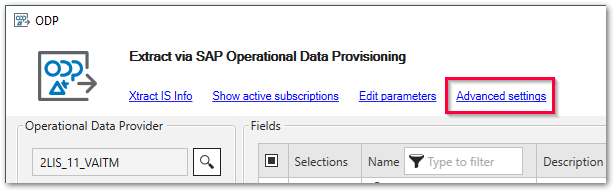
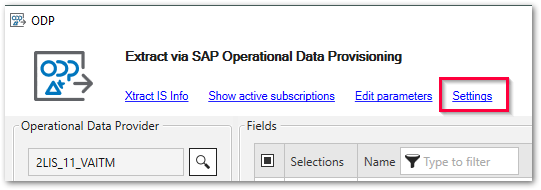
xis: odp

Changed region(s): [[0.0, 0.0263, 1.0, 0.9474], [0.207, 0.2632, 0.7689, 0.3421], [0.0591, 0.2632, 0.1774, 0.5526]]

diff --git a/projects/xtract-is/docs/documentation/odp/selections.md b/projects/xtract-is/docs/documentation/odp/selections.md
@@ -1,0 +1,77 @@
+---
+title: Selections
+description: ODP parameters
+---
+
+This page shows how to filter the data that is extracted by the {{ odp }} {{ component }}.
+Selections limit the result set of the {{ odp }} {{ component }} to extract only records that match the selection.
+
+### Edit Selections
+
+Follow the steps below to edit selection fields and filter data:
+
+1. In the subsection *Fields*, click **Edit** next to the field you want to edit. The window “Edit selection” opens.<br>
+![Sections](../../assets/images/documentation/components/{{ page.meta.componentFolder }}/selections.png)
+2. Add one or more of the following filter types:<br>
+	- Click **[Single]** to compare the data to a single specified value.<br>
+	- Click **[Range]** to check if the data is (not) within a specified range of values.
+3. In the column **Sign** :number-1:, select *Include* to add the filtered data to the output or select *Exclude* to remove the filtered data from the output.<br>
+![edit-selections](../../assets/images/documentation/components/edit-selections-xis.png){:class="img-responsive"}
+4. In the column **Option** :number-2:, select an operator. The operator filters data according to the table below.
+	
+	| Operator |  Description    |  
+	|:---------|:-------------|
+	|(not) like pattern |  True if data values do (not) contain to the content of operand 1. Not not all ODP contexts and data sources support this option.|
+	|(not) equal to |  True if data is (not) equal to the content of operand 1.|
+	|at least |  True if data is greater than or equal to the content of operand 1.|
+	|more than |  True if data is greater than the content of operand 1.|
+	|at most | True if data is less than or equal to the content of operand 1.|
+	|less than | True if data is less than the content of operand 1.|
+	|(not) between | True if data values do (not) lie between the values of operand 1 and operand 2. |
+	| elements equal | True if data values are part of operand 1. This option is only available for type *List*. |
+	
+5. In the column **Value**, enter values directly into the input fields **Low** and **High** or assign existing [parameter](#use-ssis-variables-in-selections) to the selection fields :number-3:.
+
+	!!! note
+		When parameters are available, you can use the icon button inside the input field to switch between static values (:runtime-parameters-static:) and parameters (:runtime-parameters-dynamic:).
+
+6. Click **[OK]** to confirm your input. 
+7. Click {{ previewBtn }} in the main window of the {{ component }} to check the result of your selection. 
+If parameters are defined, you are prompted to populate the parameters with actual values.
+
+
+The number of defined filters is displayed in square brackets next to the **Edit** option.
+
+### Use SSIS Variables in Selections
+
+To use SSIS variables in selection, create a parameter as a placeholder for the SSIS variable.
+The parameter can be overwritten by an SSIS variable in the *Custom Properties* or *Data Flow Properties* of the component.
+
+Follow the steps below to create a parameter in the {{ odp }} {{ component }}:
+	
+1. In the main window of the component click **Edit Parameters**. 
+The window “Edit Runtime Parameters” opens.<br>
+![open-edit-runtime-parameters](../../assets/images/{{ abbr }}/documentation/{{ page.meta.componentFolder }}/open-edit-runtime-parameters.png){:class="img-responsive"}
+2. Click **[Add Scalar]** to define scalar parameters to be used as placeholders for actual values.
+The placeholders need to be populated with actual values at runtime.
+![dd-parameters](../../assets/images/documentation/components/runtime-parameters/edit-runtime-parameters.png){:class="img-responsive"}
+	
+	!!! tip
+		Parameter0..-n is the default naming for the added parameter. You can enter a name of your choice.
+		
+3. Select one of the following data types from the drop-down menu.
+The data types may correlate to SAP data types.
+
+	| Type | Description |
+	|--------|-------------|
+	| *Text* | Can be used for any type of SAP selection field. |
+	| *Number* | Can be used for numeric SAP selection fields. |
+	| *Flag* | Can only be used for SAP selection fields THAT require an ‘X’ (true) or a blank ‘‘ (false) as input value. |
+
+4. Click **[OK]** to confirm.
+
+The parameter can now be used in selections and can be overwritten by SSIS variables in the *Custom Properties* or *Data Flow Properties* of the component.
+
+### Data Format
+
+{% include "components/settings/sap-data-format.md"  %}

diff --git a/projects/xtract-is/docs/documentation/odp/parameterization.md b/projects/xtract-is/docs/documentation/odp/parameterization.md
@@ -1,0 +1,69 @@
+---
+title: Parameterization
+description: Runtime Parameters
+---
+
+This page shows how to parameterize the {{ odp }} {{ component }} using SSIS variables and SSIS expressions to set *Data Flow Properties*.
+
+
+!!! note
+	The [parameters](selections.md/#use-ssis-variables-in-selections) defined in the {{ odp }} {{ component }} are added to the list of data flow properties and custom properties.
+
+
+<!---
+### Parameterization using SSIS Variables
+
+SSIS variables store values that an SQL Server Integration Services package and its containers, tasks, and event handlers can use at runtime.
+
+You can use SSIS variables for selections.
+Available SSIS variables are listed in the selection settings when parameter input (:runtime-parameters-dynamic:) is selected, see [Edit Selections](selections.md#edit-selections).
+-->
+
+{% include "components/xis-pass-parameters.md" %}
+
+### Data Flow Properties of {{ odp }}
+List of *Data Flow Properties* that can be parameterized:
+
+|Property |Description|
+|:----|:----|
+| *[Xtract ODP].[SubscriptionSuffix]*| Adds a suffix to the ODP subscription generated by the {{ odp }} {{ component }}. This allows using an SSIS package in two different SSIS environments, e.g. QA and PROD. accessing the same SAP system. The suffix allows generating a subscriber for each SSIS environment from the same ODP component.|
+| *[Xtract ODP].[UpdateMode]*|Runs a delta initialization with or without extracting data on init, see [Update Mode](update-mode.md/#delta-update).|
+| *[Xtract.ODP].[ExtractDataOnDeltaInit]*| Runs a delta initialization with or without extracting data on init, see [Update Mode](./odp-define#update-mode).|
+| *[Xtract.ODP].[HierarchyName]*| Applies to Hierarchy DataSources only, see [Select Hierarchy](provider-context.md/#hierarchies). Example: Loop over a list of hierarchies.  |
+| *[Xtract.ODP].[PackageSize]*| Corresponds to the setting [Package Size](settings.md/#package-size). |
+| *[Xtract.ODP].[ &lt; Selection Parameter &gt;]*| Selection parameters that are defined in the component are exposed as properties, see [Edit Parameters](edit-runtime-parameters.md). |
+
+
+### Custom Properties of {{ odp }}
+
+The *Custom Properties* are properties that are unique to the {{ component }}.
+When parameterizing the component using SSIS variables, the *Custom Properties* are overwritten.
+
+The *Custom Properties* of the {{ odp }} {{ component }} are displayed in the "Properties" window. 
+
+![odp-properties](../../assets/images/xis/documentation/odp/odp-properties.png)
+
+{% include "components/table/xis-properties.md" %}
+
+#### ExtractDataOnDeltaInit
+Runs a delta initialization with or without extracting data on init, see [Update Mode](update-mode.md/#delta-update).
+
+#### HierarchyName 
+Applies to Hierarchy DataSources only, see [Select Hierarchy](provider-context.md/#hierarchies).
+Example: Loop over a list of hierarchies.
+Example: Loop over a list of hierarchies.
+
+#### PackageSize
+Corresponds to the setting [Package Size](settings.md/#package-size).
+
+#### SubscriptionSuffix
+ Adds a suffix to the ODP subscription generated by the {{ odp }} {{ component }}. 
+ This allows using an SSIS package in two different SSIS environments, e.g. QA and PROD. accessing the same SAP system. The suffix allows generating a subscriber for each SSIS environment from the same ODP component.
+
+
+#### UpdateMode
+Sets the [update mode](update-mode.md) of an extraction. Permitted values are: 
+- (F)ull
+- (D)elta
+- (R)ecovery
+

diff --git a/includes/components/selections.md b/includes/components/selections.md
@@ -27,7 +27,7 @@ Follow the steps below to edit selection fields and filter data:
 	- Click **[Range]** to check if the data is (not) within a specified range of values.
 	{% if page.meta.product != "xtract-is" %}- Click **[List]** to check if the data is (not) part of a specified list of values. {% endif %}
 3. In the column **Sign** :number-1:, select *Include* to add the filtered data to the output or select *Exclude* to remove the filtered data from the output.<br>
-![edit-selections](../../assets/images/documentation/components/edit-selections.png){:class="img-responsive"}
+{% if page.meta.product != "xtract-is" %}![edit-selections](../../assets/images/documentation/components/edit-selections.png){:class="img-responsive"}{% else %}![edit-selections](../../assets/images/documentation/components/edit-selections-xis.png){:class="img-responsive"}{% endif %}
 4. In the column **Option** :number-2:, select an operator. The operator filters data according to the table below.
 	
 	| Operator |  Description    |  

diff --git a/projects/xtract-is/docs/documentation/odp/settings.md b/projects/xtract-is/docs/documentation/odp/settings.md
@@ -1,0 +1,21 @@
+---
+title: Settings
+description: Extraction Settings of ODP
+---
+
+{% include "components/settings/open-settings.md"  %}
+
+### Extraction Settings
+
+![ODP Advanced Settings](../../assets/images/documentation/components/odp/extraction-settings.png){:class="img-responsive"}
+
+#### Package Size
+{% include "components/settings/package-size.md"  %}
+
+Make sure that your SAP version includes the necessary notes, see [Prerequisites](index.md/#prerequisites). <br>
+
+#### Adjust Currency Decimals
+
+{% include "components/settings/adjust-currency-decimals.md"  %}
+
+

diff --git a/projects/xtract-is/docs/documentation/bwloader/parameterization.md b/projects/xtract-is/docs/documentation/bwloader/parameterization.md
@@ -18,7 +18,7 @@ The following settings in the {{ bwloader }} {{ component }} allow entry of an S
 {% include "components/xis-ssis-notation.md" %}
 
 
-### Custom Properties
+### Custom Properties of {{ bwloader }}
 
 The *Custom Properties* are properties that are unique to the {{ component }}.
 When parameterizing the component using SSIS variables, the *Custom Properties* are overwritten.

diff --git a/includes/components/table/xis-properties.md b/includes/components/table/xis-properties.md
@@ -1,6 +1,6 @@
 
-{% if page.meta.componentFolder != "ohs" %}
-####ColumnNameStyle
+{% if page.meta.componentFolder == "table" %}
+#### ColumnNameStyle
 
 - *Code*: the SAP technical column name is used as column name in the output, e.g., MAKTX.
 - *PrefixedCode*: the SAP technical column name is prefixed by SAP object name and the tilde character, e.g., MAKT~MAKTX.

diff --git a/projects/xtract-for-alteryx/docs/documentation/odp/index.md b/projects/xtract-for-alteryx/docs/documentation/odp/index.md
@@ -17,6 +17,3 @@ The {{ odp }} {{ component }} can be used to extract data via the SAP Operationa
 
 {% include "components/odp/define-an-odp-extraction.md" %}
 
-****
-#### Related Links
-- [Youtube Tutorial: SAP ODP incremental load to SQL server](https://www.youtube.com/watch?v=-7pEm2VVPRg)

diff --git a/projects/xtract-is/docs/documentation/odp/index.md b/projects/xtract-is/docs/documentation/odp/index.md
@@ -13,6 +13,6 @@ The {{ odp }} {{ component }} can be used to extract data via the SAP Operationa
 
 {% include "components/odp/auth-warning.md" %}
 
-{% include "components/xu-bc-new.md" %}
+{% include "components/xis-new.md" %}
 
 {% include "components/odp/define-an-odp-extraction.md" %}

diff --git a/projects/xtract-is/docs/documentation/odp/provider-context.md b/projects/xtract-is/docs/documentation/odp/provider-context.md
@@ -1,0 +1,6 @@
+---
+title: Provider Context
+description: Information about the supported ODP Extraction Contexts
+---
+
+{% include "components/odp/provider-contexts.md" %}

diff --git a/projects/xtract-is/docs/documentation/odp/subscriptions.md b/projects/xtract-is/docs/documentation/odp/subscriptions.md
@@ -1,0 +1,6 @@
+---
+title: Subscriptions
+description: Show active Subscriptions
+---
+
+{% include "components/odp/subscriptions.md" %}

diff --git a/projects/xtract-is/docs/documentation/odp/update-mode.md b/projects/xtract-is/docs/documentation/odp/update-mode.md
@@ -1,0 +1,8 @@
+---
+title: Update Mode
+description: Update Mode
+---
+
+{% include "components/odp/update-mode.md" %}
+
+
